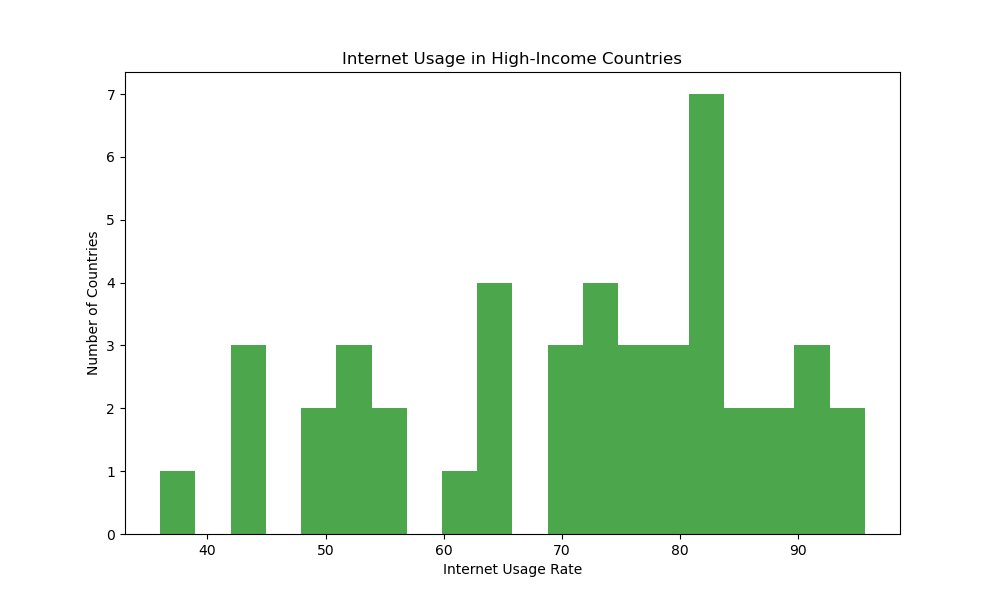
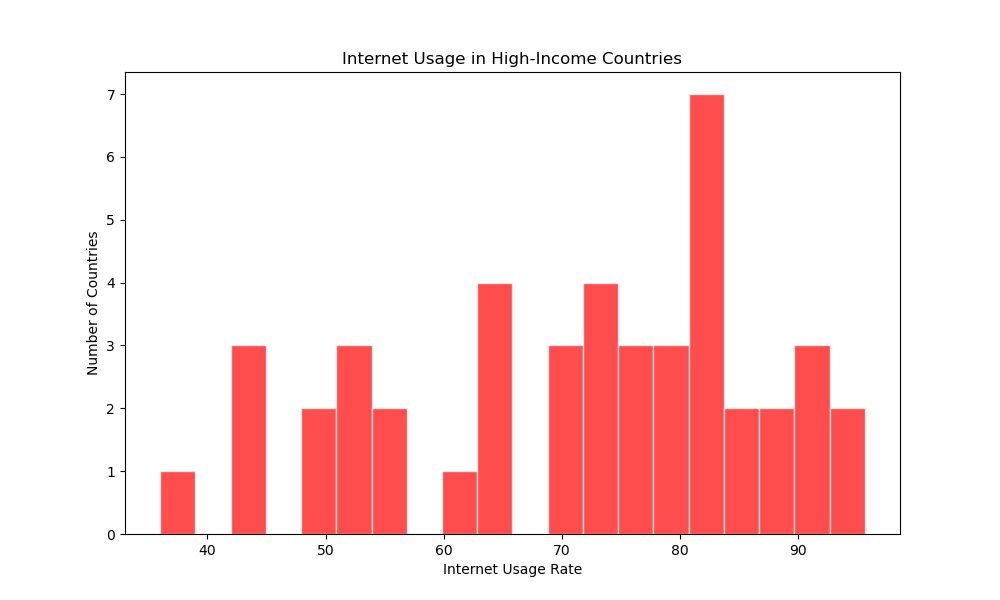
changes

Changed region(s): [[0.155, 0.15, 0.868, 0.9]]

diff --git a/ex3.1.py b/ex3.1.py
@@ -22,7 +22,7 @@ try:
 
     if low_income_countries:
         plt.figure(figsize=(10,6))
-        plt.hist(low_income_countries, bins=20, color='blue', alpha=0.7, border = 'white')
+        plt.hist(low_income_countries, bins=20, color='red', alpha=0.7, edgecolor = 'white')
         plt.title('Internet Usage in Low-Income Countries')
         plt.xlabel('Internet Usage Rate')
         plt.ylabel('Number of Countries')
@@ -30,7 +30,7 @@ try:
 
     if high_income_countries:
         plt.figure(figsize=(10,6))
-        plt.hist(high_income_countries, bins=20, color='green', alpha=0.7, border = 'white')
+        plt.hist(high_income_countries, bins=20, color='red', alpha=0.7, edgecolor = 'white')
         plt.title('Internet Usage in High-Income Countries')
         plt.xlabel('Internet Usage Rate')
         plt.ylabel('Number of Countries')
